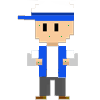
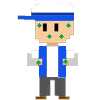
Adiciona animacao de morte para o player

diff --git a/main.cpp b/main.cpp
@@ -70,6 +70,22 @@ void InicializarTexturas () {
     glEnable(GL_TEXTURE_2D);
     glEnable(GL_BLEND);
     glBlendFunc(GL_SRC_ALPHA, GL_ONE_MINUS_SRC_ALPHA);
+
+	auto carregaLista = [](string s, int t, int n){
+		int p = s.size() - 1;
+		while(p != -1 && s[p] != '_')
+			p--;
+		if(p == -1){
+			printf("%s faltando '_'\n", s.c_str());
+			exit(0);
+		}
+		
+		for(int i = 0; i < n; i++){
+			s[p] = '1' + i;
+			loadTexture(s.c_str(), t + i);
+		}
+	};
+
     loadTexture("imagens/0.png", 0);
     loadTexture("imagens/1.png", 1);
     loadTexture("imagens/2.png", 2);
@@ -85,15 +101,10 @@ void InicializarTexturas () {
     loadTexture("imagens/grama.jpg", T_GRAMA);
     loadTexture("imagens/pedra.jpg", T_PEDRA);
     loadTexture("imagens/parede.png", T_PAREDE);
-    loadTexture("imagens/jogador1.png", T_JOGADOR);
-    loadTexture("imagens/jogador2.png", T_JOGADOR + 1);
-    loadTexture("imagens/jogador3.png", T_JOGADOR + 2);
-    loadTexture("imagens/mosquito01.png", T_MOSQUITO);
-    loadTexture("imagens/mosquito02.png", T_MOSQUITO + 1);
-    loadTexture("imagens/mosquito11.png", T_MOSQUITO + 2);
-    loadTexture("imagens/mosquito12.png", T_MOSQUITO + 3);
-    loadTexture("imagens/mosquito21.png", T_MOSQUITO + 4);
-    loadTexture("imagens/mosquito22.png", T_MOSQUITO + 5);
+	carregaLista("imagens/jogador_.png", T_JOGADOR, 3);
+	carregaLista("imagens/mosquito0_.png", T_MOSQUITO  , 2);
+	carregaLista("imagens/mosquito1_.png", T_MOSQUITO+2, 2);
+	carregaLista("imagens/mosquito2_.png", T_MOSQUITO+4, 2);
     loadTexture("imagens/raquete.png", T_RAQUETE);
     loadTexture("imagens/coracao.png", T_CORACAO);
     loadTexture("imagens/raio.png", T_RAIO);
@@ -104,6 +115,7 @@ void InicializarTexturas () {
 	loadTexture("imagens/tenis.png", T_TENIS);
 	loadTexture("imagens/raquetebonus.png", T_RAQUETEBONUS);
 	loadTexture("imagens/porta.png", T_PORTA);
+	carregaLista("imagens/jogadorMorrendo_.png", T_JOGADORMORRENDO, 3);
 }
 
 void Teclado(unsigned char key, int x, int y)
@@ -220,7 +232,7 @@ void DinamicaDoJogo(int frame)
 	auto tempoInicio = std::chrono::system_clock::now();
 	if(tela == JOGO){
 		jogo.atualiza();
-		if(jogo.player.vidas == 0){
+		if(jogo.player.vidas == 0 && jogo.player.framesAnimacao == 0){
 			tela = GAMEOVER;
 			glMatrixMode(GL_MODELVIEW);
 			glLoadIdentity();

diff --git a/player.h b/player.h
@@ -20,7 +20,7 @@ class Player{
 	bool espelha;
     std::list<Raquete> raquetes{};
 	int framesProximo;
-	int framesAndando;
+	int framesAnimacao;
 
 	Player(){
 		setaPos(1, 1);
@@ -41,7 +41,7 @@ class Player{
 		dx = 0;
 		dy = 0;
 		vivo = true;
-		framesAndando = framesProximo = 0;
+		framesAnimacao = framesProximo = 0;
 	}
 
 	bool movendo(){
@@ -76,13 +76,19 @@ class Player{
 	}
 
 	bool mover(Mapa &mapa){
+		if(!vivo){
+			if(framesAnimacao)
+				framesAnimacao--;
+			return false;
+		}
+
 		x += velocidades[velocidade] * dx;
 		y += velocidades[velocidade] * dy;
 		if(framesProximo > 0)
 			framesProximo--;
 
 		if(inteiro(x) && inteiro(y)){
-			framesAndando = 0;
+			framesAnimacao = 0;
 			dx = 0;
 			dy = 0;
 			int i = x / FPS, j = y / FPS;
@@ -115,18 +121,24 @@ class Player{
 				colocaRaquete(mapa, false);
 			}
 		}else{
-			framesAndando++;
+			framesAnimacao++;
 		}
 
 		return false;
 	}
 
 	void desenha(){
-		if(!vivo)
-			return;
 		float X = (float) x / FPS;
 		float Y = (float) y / FPS;
-		int t = T_JOGADOR + (framesAndando % 15) / 5;
+		int t;
+		if(!vivo){
+			if(framesAnimacao == 0)
+				return;
+			int q = (FPS / 6);
+			t = T_JOGADORMORRENDO + maximo(framesAnimacao / (FPS / 6) - 4, 0);
+		}else{
+			t = T_JOGADOR + (framesAnimacao % 15) / 5;
+		}
 		if(espelha)
 			desenhaTexturaEspelhado(t, X, Y, X + 1, Y + 1);
 		else

diff --git a/jogo.h b/jogo.h
@@ -36,9 +36,13 @@ class Jogo{
             mosquitos.emplace_back(v, 2, mapa);
 	}
 
-    void tecladoEspecial(int key, int x, int y){
-        if(!player.vivo && setas.size() == 0)
+    void revivePlayer(){
+        if(!player.vivo && setas.size() == 0 && player.framesAnimacao == 0)
             player.setaPos(1, 1);
+    }
+
+    void tecladoEspecial(int key, int x, int y){
+        revivePlayer();
         
         if(key == GLUT_KEY_RIGHT || key == GLUT_KEY_LEFT || key == GLUT_KEY_UP || key == GLUT_KEY_DOWN){
             for(auto &k : setas)
@@ -148,6 +152,7 @@ class Jogo{
             return;
         
         player.vivo = false;
+        player.framesAnimacao = FPS - 1;
         player.vidas--;
     }
 
